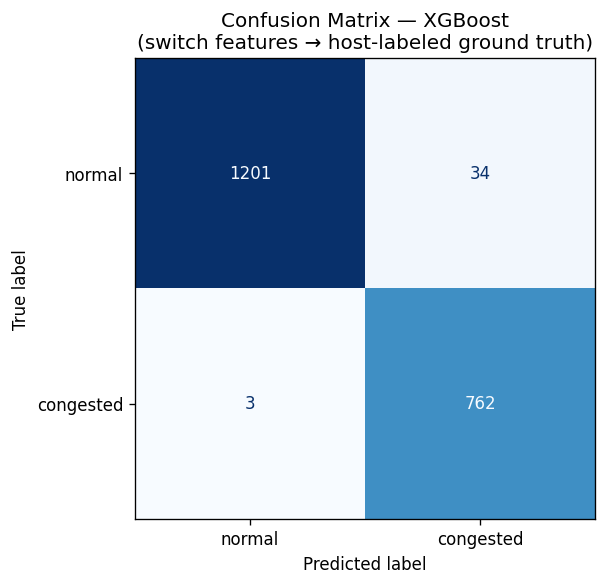
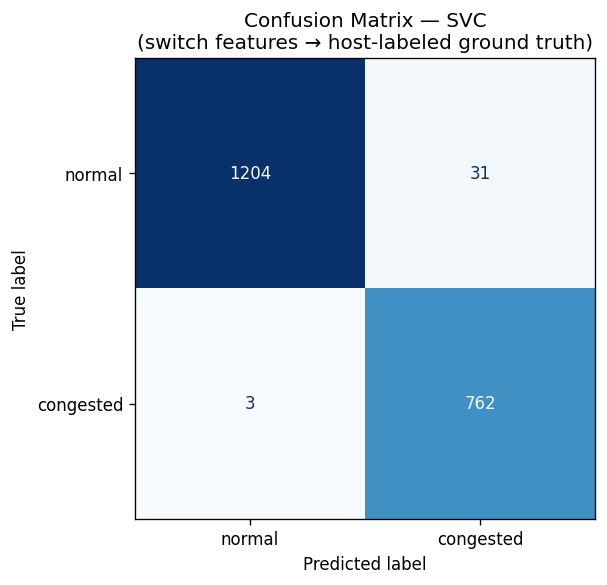
Refactor model pipeline: Sweep dynamic feature selectors (Lasso top-15) and broaden evaluated classifiers (SVC, MLP)

Changed region(s): [[0.3558, 0.0, 0.8303, 0.0615], [0.771, 0.2769, 0.8007, 0.3077], [0.4152, 0.2769, 0.4448, 0.3077]]

diff --git a/models/train_model.py b/models/train_model.py
@@ -123,6 +123,10 @@ from sklearn.metrics import (
     confusion_matrix, roc_curve, ConfusionMatrixDisplay, precision_recall_curve
 )
 from sklearn.model_selection import StratifiedKFold, cross_val_score, cross_val_predict
+from sklearn.linear_model import LogisticRegression
+from sklearn.svm import SVC
+from sklearn.neural_network import MLPClassifier
+from sklearn.feature_selection import SelectFromModel, SelectKBest, mutual_info_classif, RFE
 
 warnings.filterwarnings("ignore")
 
@@ -365,8 +369,22 @@ def time_split(df, X, y):
 # 4.  MODEL DEFINITIONS
 # ============================================================================
 
+def get_feature_selectors():
+    rf = RandomForestClassifier(n_estimators=100, random_state=RANDOM_STATE, n_jobs=-1)
+    lr_lasso = LogisticRegression(penalty='l1', solver='liblinear', random_state=RANDOM_STATE)
+    
+    return {
+        "Mutual_Information": SelectKBest(mutual_info_classif, k=15),
+        "Lasso_L1": SelectFromModel(lr_lasso, max_features=15, threshold=-np.inf),
+        "RandomForest_MDI": SelectFromModel(rf, max_features=15, threshold=-np.inf),
+        "RFE_RandomForest": RFE(estimator=rf, n_features_to_select=15, step=10)
+    }
+
 def get_models():
     models = {
+        "LogisticRegression": LogisticRegression(max_iter=1000, random_state=RANDOM_STATE),
+        "SVC": SVC(probability=True, random_state=RANDOM_STATE),
+        "MLP_NeuralNet": MLPClassifier(hidden_layer_sizes=(64, 32), max_iter=500, random_state=RANDOM_STATE),
         "RandomForest": RandomForestClassifier(
             n_estimators=300,
             max_features="sqrt",
@@ -406,20 +424,10 @@ def get_models():
 # 5.  TRAINING & EVALUATION
 # ============================================================================
 
-def evaluate_model(name, model, X_tr, X_te, y_tr, y_te, feature_cols, state_te):
+def evaluate_model(name, model, X_tr_sel, X_te_sel, y_tr, y_te, sel_features, state_te):
     print(f"\n  [{name}]")
     
-    # 1. Feature Selection (prevent overfitting)
-    # Use a Random Forest to select the top 40 features
-    rf_selector = RandomForestClassifier(n_estimators=100, random_state=RANDOM_STATE, n_jobs=-1)
-    selector = SelectFromModel(rf_selector, max_features=40, threshold=-np.inf)
-    X_tr_sel = selector.fit_transform(X_tr, y_tr)
-    X_te_sel = selector.transform(X_te)
-    sel_mask = selector.get_support()
-    sel_features = [feature_cols[i] for i, m in enumerate(sel_mask) if m]
-    print(f"    Selected {len(sel_features)}/{len(feature_cols)} features")
-
-    # 2. Threshold Optimization via CV and PR curve
+    # Threshold Optimization via CV and PR curve
     if hasattr(model, "predict_proba"):
         cv_probs = cross_val_predict(model, X_tr_sel, y_tr, cv=5, method='predict_proba', n_jobs=-1)[:, 1]
         precs, recs, threshs = precision_recall_curve(y_tr, cv_probs)
@@ -465,17 +473,16 @@ def evaluate_model(name, model, X_tr, X_te, y_tr, y_te, feature_cols, state_te):
     print(f"\n{breakdown_str}")
 
     return {
-        "name": name, "model": model, "selector": selector, "sel_features": sel_features,
+        "name": name, "model": model, "sel_features": sel_features,
         "best_thresh": best_thresh, "acc": acc, "f1": f1, "auc": auc, "cv_f1": cv_f1.mean(),
         "y_pred": y_pred, "y_prob": y_prob, "report": rep, "breakdown_str": breakdown_str,
     }
 
-
-def train_all_models(models, X_tr, X_te, y_tr, y_te, feature_cols, state_te):
+def train_all_models(models, X_tr_sel, X_te_sel, y_tr, y_te, sel_features, state_te):
     results = []
     for name, model in models.items():
         try:
-            r = evaluate_model(name, model, X_tr, X_te, y_tr, y_te, feature_cols, state_te)
+            r = evaluate_model(name, model, X_tr_sel, X_te_sel, y_tr, y_te, sel_features, state_te)
             results.append(r)
         except Exception as e:
             print(f"  [{name}] FAILED: {e}")
@@ -508,15 +515,8 @@ def plot_feature_importance(best, feature_cols, X_te, y_te, out_dir=MODEL_DIR):
         axes[0].set_visible(False)
 
     try:
-        # Transform X_te to include only the selected features for permutation evaluation
-        selector = best.get("selector")
-        if selector is not None:
-             X_te_sel = selector.transform(X_te)
-        else:
-             X_te_sel = X_te
-
         perm = permutation_importance(
-            model, X_te_sel, y_te,
+            model, X_te, y_te,
             n_repeats=10, random_state=RANDOM_STATE, n_jobs=-1,
             scoring="f1_macro",
         )
@@ -575,7 +575,7 @@ def plot_roc_curves(results, y_te, out_dir=MODEL_DIR):
     print(f"  ROC curve plot         → {path}")
 
 
-def plot_predictions_timeline(df, best, X_scaled, y, out_dir=MODEL_DIR, window=None, suffix=""):
+def plot_predictions_timeline(df, best, X_scaled_sel, y, out_dir=MODEL_DIR, window=None, suffix=""):
     """
     Compare model predictions against host-derived ground truth labels.
     Also overlays the key switch features the model used, providing a
@@ -586,7 +586,7 @@ def plot_predictions_timeline(df, best, X_scaled, y, out_dir=MODEL_DIR, window=N
         start_bin, end_bin = window
         mask = (df["time_bin"] >= start_bin) & (df["time_bin"] <= end_bin)
         df = df[mask].copy()
-        X_scaled = X_scaled[mask].copy() if isinstance(X_scaled, pd.DataFrame) else X_scaled[mask]
+        X_scaled_sel = X_scaled_sel[mask].copy() if isinstance(X_scaled_sel, pd.DataFrame) else X_scaled_sel[mask]
         y = y[mask]
         
     fig = plt.figure(figsize=(16, 12))
@@ -645,8 +645,7 @@ def plot_predictions_timeline(df, best, X_scaled, y, out_dir=MODEL_DIR, window=N
 
     # Panel 4 — Model predictions (from switch features only)
     ax4 = fig.add_subplot(gs[3])
-    # To predict full series for visual, use the best model's pipeline
-    X_scaled_sel = best["selector"].transform(X_scaled.values)
+    # Predict full series output
     full_prob = best["model"].predict_proba(X_scaled_sel)[:, 1] if hasattr(best["model"], "predict_proba") else None
     full_pred = (full_prob >= best["best_thresh"]).astype(int) if full_prob is not None else best["model"].predict(X_scaled_sel)
     
@@ -743,9 +742,40 @@ def main():
     print("\n[Time-aware train/test split]")
     X_tr, X_te, y_tr, y_te, state_tr, state_te = time_split(df_eng, X_scaled, y)
 
-    print("\n[Training models]")
+    print("\n[Exploring Feature Selection (Target=15 features)]")
+    selectors = get_feature_selectors()
+    best_fs_name = None
+    best_fs_score = -1
+    best_X_tr_sel = None
+    best_X_te_sel = None
+    best_fs_features = []
+    
+    # We use a fast LogisticRegression proxy to score features
+    proxy_model = LogisticRegression(max_iter=1000, random_state=RANDOM_STATE)
+    
+    for fs_name, selector in selectors.items():
+        print(f"  Evaluating {fs_name}...")
+        try:
+            X_tr_tmp = selector.fit_transform(X_tr, y_tr)
+            cv_f1 = cross_val_score(proxy_model, X_tr_tmp, y_tr, cv=3, scoring="f1_macro", n_jobs=-1).mean()
+            print(f"    Selected size: {X_tr_tmp.shape[1]} | CV Proxy F1: {cv_f1:.4f}")
+            
+            if cv_f1 > best_fs_score:
+                best_fs_score = cv_f1
+                best_fs_name = fs_name
+                best_X_tr_sel = X_tr_tmp
+                best_X_te_sel = selector.transform(X_te)
+                mask = selector.get_support()
+                best_fs_features = [feature_cols[i] for i, m in enumerate(mask) if m]
+        except Exception as e:
+            print(f"    Failed: {e}")
+
+    print(f"\n  Winner: {best_fs_name} (Proxy CV F1 = {best_fs_score:.4f})")
+    print(f"  Keeping exact {len(best_fs_features)} / {len(feature_cols)} optimized features.")
+
+    print("\n[Training models on Optimal Feature Set]")
     models  = get_models()
-    results = train_all_models(models, X_tr, X_te, y_tr, y_te, feature_cols, state_te)
+    results = train_all_models(models, best_X_tr_sel, best_X_te_sel, y_tr, y_te, best_fs_features, state_te)
 
     if not results:
         print("ERROR: No model trained successfully.")
@@ -754,16 +784,19 @@ def main():
     best = pick_best(results)
 
     print("\n[Generating plots]")
-    # Feature importance uses the post-selection mask
-    plot_feature_importance(best, best["sel_features"], X_te, y_te)
+    # Generate full selected dataset for prediction timelines
+    X_scaled_full_sel = selectors[best_fs_name].transform(X_scaled)
+    
+    # Feature importance uses the post-selection test data
+    plot_feature_importance(best, best["sel_features"], best_X_te_sel, y_te)
     plot_confusion_matrix(best, y_te)
     plot_roc_curves(results, y_te)
-    plot_predictions_timeline(df_eng, best, X_scaled, y)
-    plot_predictions_timeline(df_eng, best, X_scaled, y, window=(8400, 8600), suffix="_zoom_8400_8600")
-    plot_predictions_timeline(df_eng, best, X_scaled, y, window=(9000, 9300), suffix="_zoom_9000_9300")
+    plot_predictions_timeline(df_eng, best, X_scaled_full_sel, y)
+    plot_predictions_timeline(df_eng, best, X_scaled_full_sel, y, window=(8400, 8600), suffix="_zoom_8400_8600")
+    plot_predictions_timeline(df_eng, best, X_scaled_full_sel, y, window=(9000, 9300), suffix="_zoom_9000_9300")
 
     print("\n[Saving model and report]")
-    save_model(best, scaler, feature_cols, results)
+    save_model(best, scaler, best_fs_features, results)
 
     print("\n[Done]")
     print(f"  Best: {best['name']}  "
